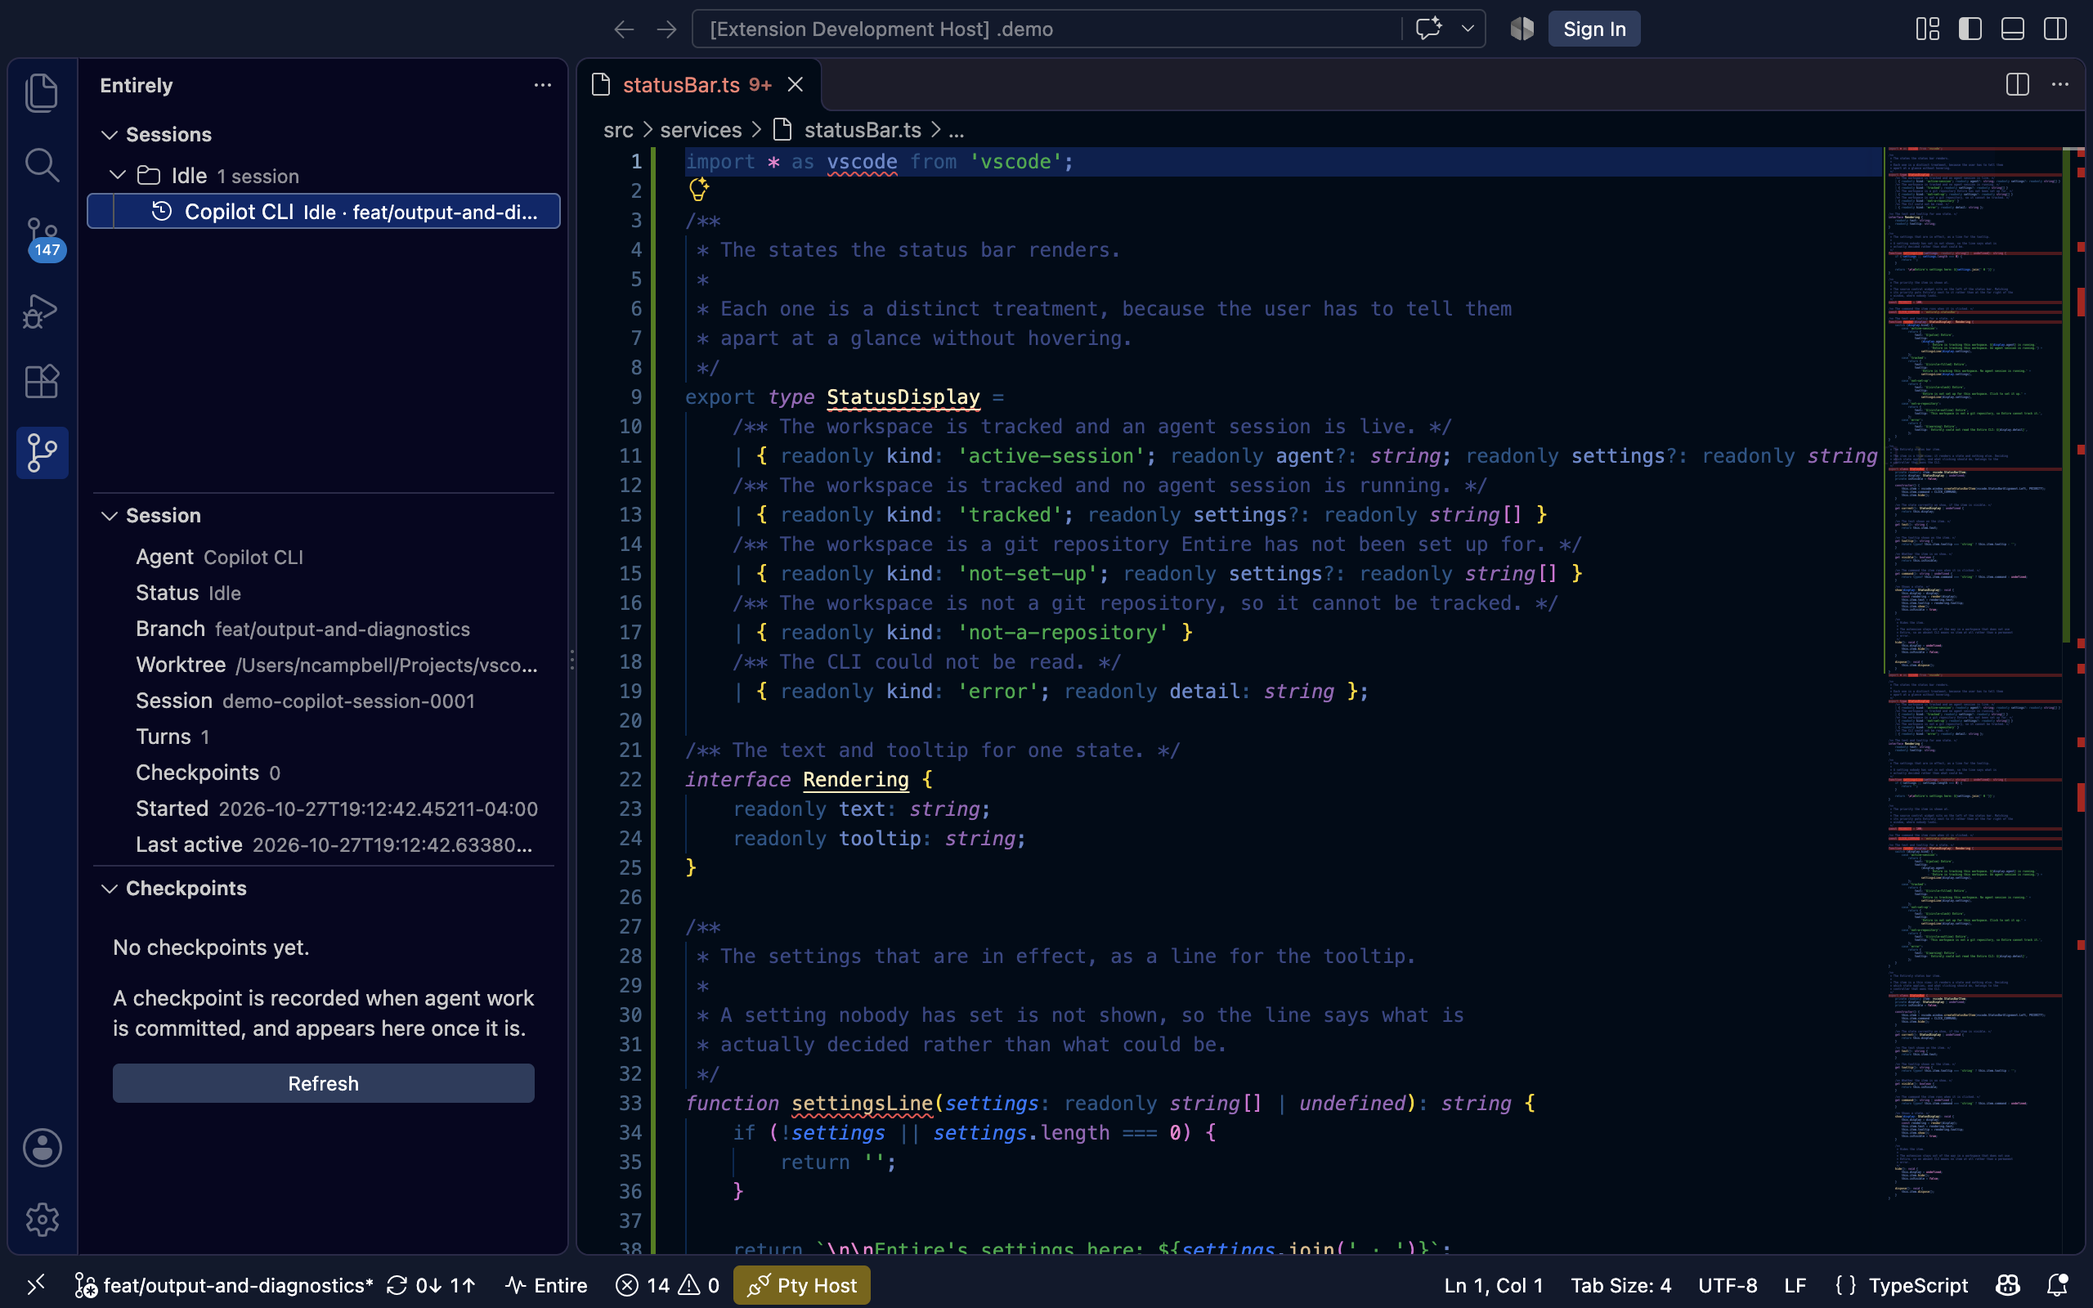
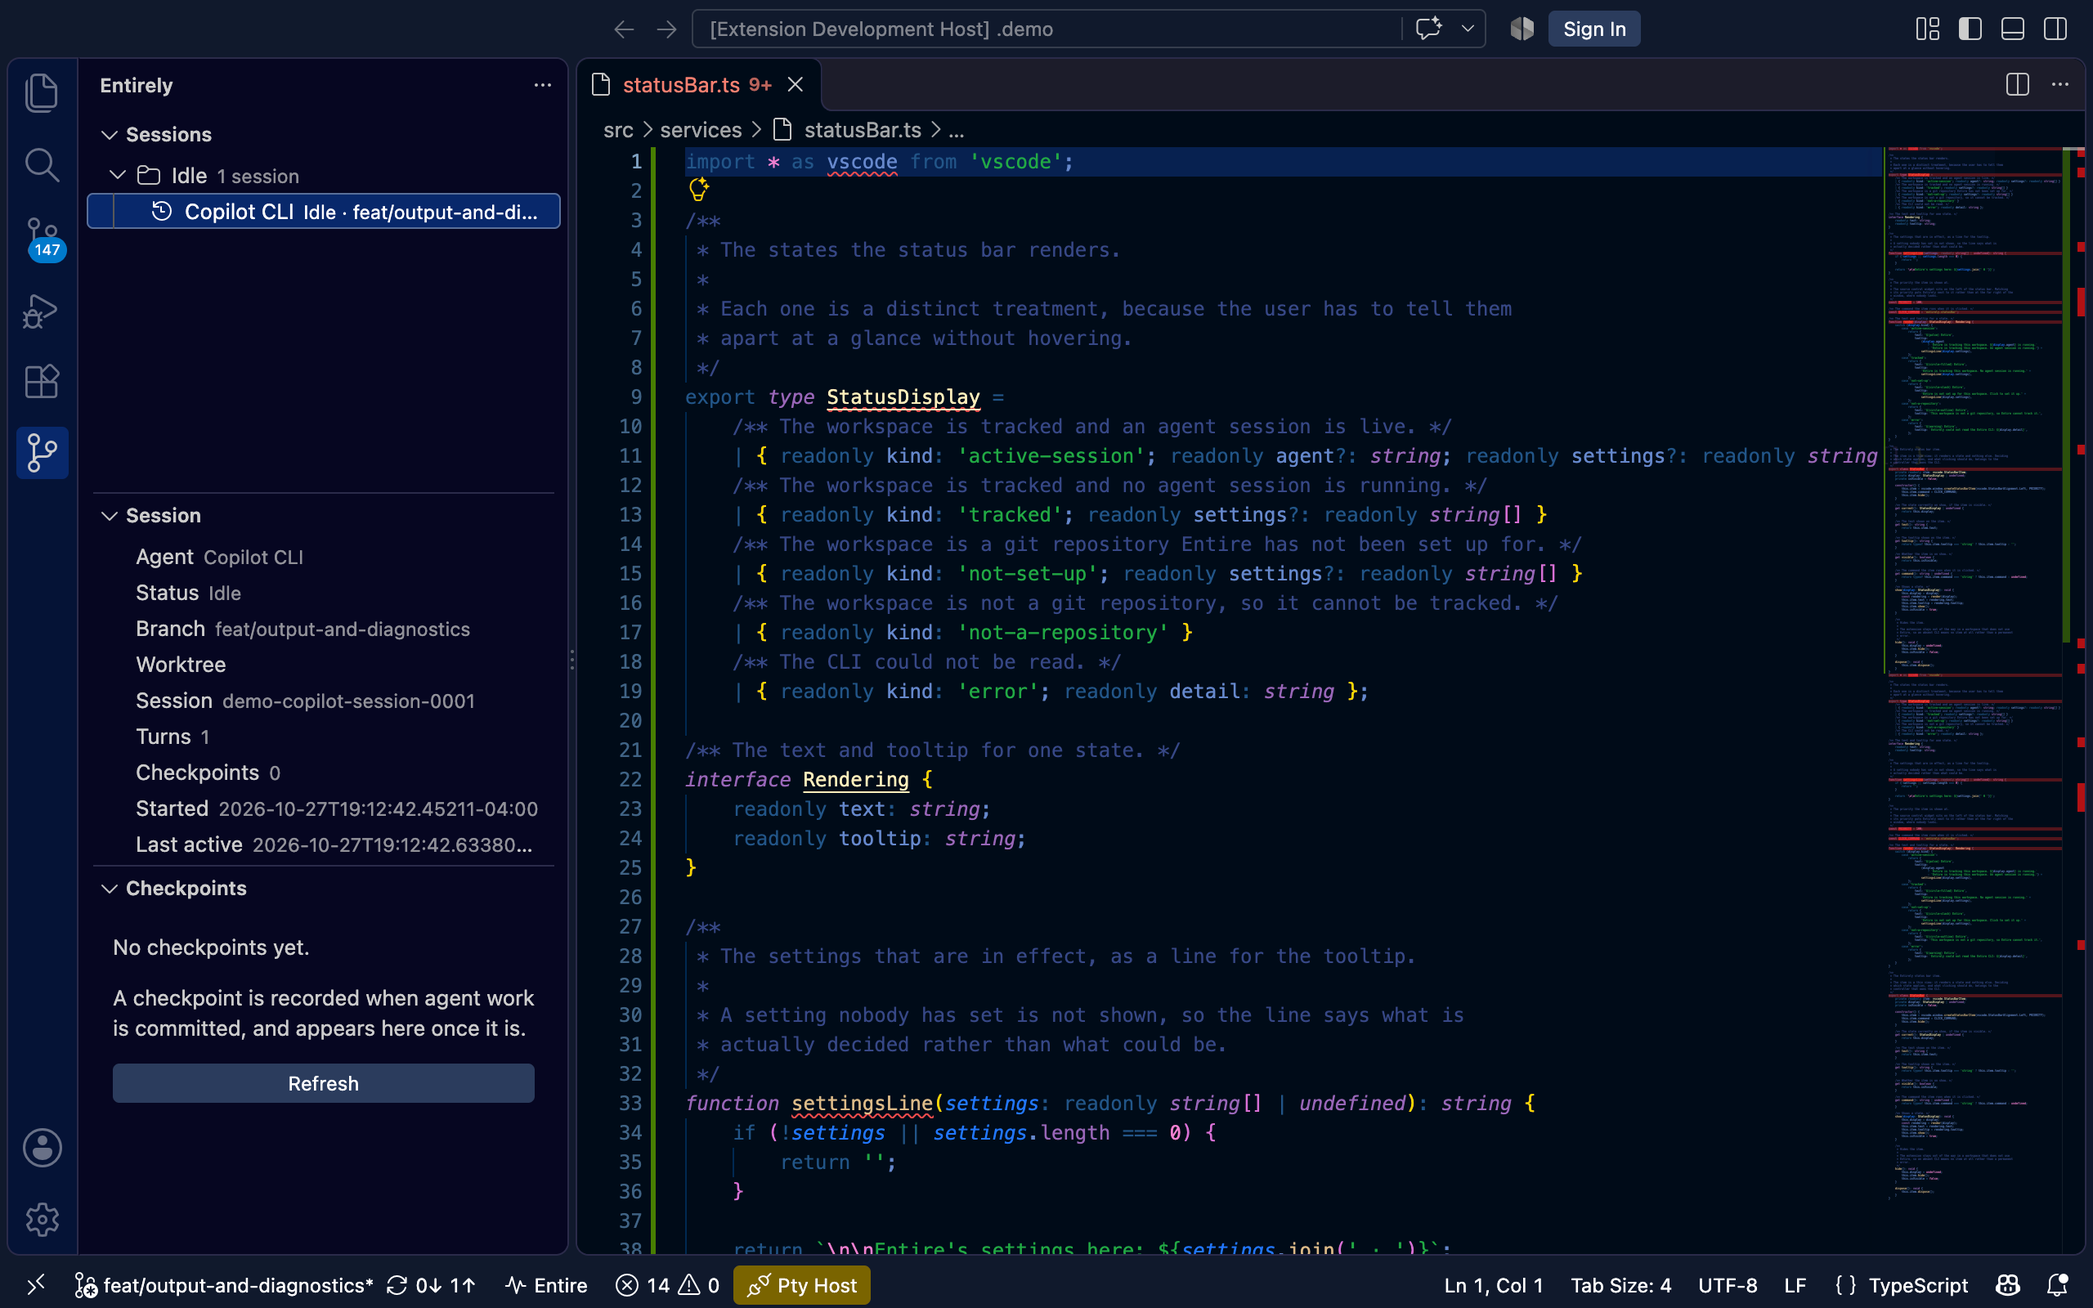
docs(site): correct which commands ask first, and redact local paths from the screenshots
Entire-Checkpoint: 01M66AE08SMASX5QBHS37V0KGV

diff --git a/site/src/content/docs/reference/commands.md b/site/src/content/docs/reference/commands.md
@@ -10,7 +10,7 @@ Entirely contributes 63 commands. All of them share the category `Entirely`, so 
 Reading the tables:
 
 - **Where** lists the places beyond the palette. `view title` is the toolbar of a view, `inline` is the icon on a tree row, `context` is a right-click menu, `editor` is the editor's context menu or title bar.
-- **Changes** says whether the command changes anything on Entire, in the repository or in your settings. *Read* means it only reads. *Confirms* means a modal prompt names what will change and nothing runs until you agree. See [Privacy and redaction](/entirely/concepts/privacy-and-redaction/) for what the extension keeps out of its logs.
+- **Changes** says whether the command changes anything on Entire, in the repository or in your settings. *Read* means it only reads. *Confirms* means a modal prompt names what will change and nothing runs until you agree. *Asks for input, no confirmation* means you pick or type something and the command then runs without a further prompt. See [Privacy and redaction](/entirely/concepts/privacy-and-redaction/) for what the extension keeps out of its logs.
 - **Hidden** commands are registered with `commandPalette: false`. They exist for menus, tree rows and links, and never show in the palette.
 
 Several commands that have a menu entry are also in the palette, for example **Entirely: Create Repository**. The ones that are not are marked *hidden*.
@@ -22,11 +22,11 @@ Several commands that have a menu entry are also in the palette, for example **E
 | Entirely: Refresh | `entirely.refresh` | palette | Read | Re-reads the CLI for workspace, session and checkpoint state. |
 | Entirely: Open Settings | `entirely.openSettings` | palette | Read | Opens the Settings editor filtered to Entirely. |
 | Entirely: Entirely Status | `entirely.statusBar` | status bar click; hidden | Depends on state | The status bar's click action. See [Status bar](/entirely/reference/status-bar/). |
-| Entirely: Set Up Entire | `entirely.setUp` | palette | Confirms | Offers to run `entire enable` for the workspace, which installs hooks so agent sessions are recorded. Picks the agent from `entire agent list`. |
+| Entirely: Set Up Entire | `entirely.setUp` | palette | Asks for input, no confirmation | Shows a message with a **Set Up** button (not a modal), then a picker of the agents from `entire agent list`, then runs `entire enable` for that agent with no further prompt. Installs hooks so agent sessions are recorded. |
 | Entirely: Set Up Agent Integrations | `entirely.manageAgents` | palette | Confirms | Lists the agents the CLI supports, marks the installed ones, and installs or removes one. The prompt says the CLI will write the agent's hook configuration into the repository. See [Agent integrations](/entirely/guides/agent-integrations/). |
 | Entirely: Add the Entire CLI to the Terminal PATH | `entirely.repairTerminalPath` | palette | Confirms | Writes `terminal.integrated.env.<platform>` so the integrated terminal can run `entire`. You pick the settings scope first. Running it again removes the entry. |
 | Entirely: Check Where Checkpoints Are Uploaded | `entirely.checkpointDestination` | palette | Read | Reports the repository checkpoints go to and whether the CLI can reach it. |
-| Entirely: Doctor: Copy a Diagnostic Report | `entirely.doctor` | palette | Read | Copies a report of CLI version, repository state, effective settings and last error. |
+| Entirely: Doctor: Copy a Diagnostic Report | `entirely.doctor` | palette | Read | Writes a report of CLI version, repository state, effective settings and last error to the output channel, then offers **Copy to Clipboard**. |
 | Entirely: Doctor: Show the CLI's Full Diagnostic Output | `entirely.showCliDoctorOutput` | palette | Read | Shows the bare `entire doctor` output. Never run with a fix flag. |
 | Entirely: Doctor: Show the Last Entire CLI Output | `entirely.dumpCliOutput` | palette | Read | Dumps the recorded output of the last CLI call. This is the explicit way to see a payload that the output channel keeps out by default. |
 
@@ -36,7 +36,7 @@ See [Doctor and diagnostics](/entirely/guides/doctor-and-diagnostics/).
 
 | Palette title | Id | Where | Changes | What it does |
 | --- | --- | --- | --- | --- |
-| Entirely: Sign In to Entire | `entirely.signIn` | Account view title (when signed out) | Account | Runs `entire login`, with a device-code option and a server choice. |
+| Entirely: Sign In to Entire | `entirely.signIn` | Account view title (when signed out) | Account | Runs `entire login`. You choose a browser or a device code; the device-code choice is offered only when the CLI supports it. |
 | Entirely: Sign Out of Entire | `entirely.signOut` | Account view title (when signed in) | Confirms | Runs `entire logout`. The prompt warns that every saved login is signed out. |
 
 See [Accounts and contexts](/entirely/concepts/accounts-and-contexts/).
@@ -77,12 +77,12 @@ See [Search](/entirely/guides/search/) and [Blame and why](/entirely/guides/blam
 
 ## Trails and review
 
-Each action below confirms in a modal prompt and names what it changes. The merge runs a dry run first and reports blockers before it asks. The timeout is `entirely.trailActionTimeout`.
+Merge, check out, link and unlink confirm in a modal prompt that names what they change. The merge runs a dry run first and reports blockers before it asks. Approve runs right after you pick the change, and comment runs right after you type the text, so neither confirms. The timeout is `entirely.trailActionTimeout`.
 
 | Palette title | Id | Where | Changes | What it does |
 | --- | --- | --- | --- | --- |
-| Entirely: Approve a Change on a Trail | `entirely.trailApprove` | palette | Confirms | `entire trail approve`, optionally with a message. |
-| Entirely: Comment on a Change on a Trail | `entirely.trailComment` | palette | Confirms | Posts a comment (`trail comment add`) or a finding (`trail finding add`). Comment bodies are redacted from the logged command line. |
+| Entirely: Approve a Change on a Trail | `entirely.trailApprove` | palette | Asks for input, no confirmation | `entire trail approve`, run as soon as you pick the change. No message is sent. |
+| Entirely: Comment on a Change on a Trail | `entirely.trailComment` | palette | Asks for input, no confirmation | Posts a comment (`trail comment add`) as soon as you enter the text. If the CLI refuses a comment from an agent session, the note is posted as a finding (`trail finding add`) instead and you are told. Comment bodies are redacted from the logged command line. |
 | Entirely: Merge a Change on a Trail | `entirely.trailMerge` | palette | Confirms | `entire trail merge`, after a dry run that names what will be merged. |
 | Entirely: Check Out a Change on a Trail | `entirely.trailCheckout` | palette | Confirms | `entire trail checkout`. Warns about unsaved files because the checkout moves the working tree. |
 | Entirely: Link a Branch to a Trail | `entirely.trailLink` | palette | Confirms | `entire trail link`. |
@@ -129,9 +129,9 @@ The delete, visibility and access commands are hidden from the palette and live 
 | Entirely: Install Plugin | `entirely.installPlugin` | palette | Confirms | `entire plugin install`. |
 | Entirely: Refresh Integrations | `entirely.refreshIntegrations` | Integrations view title | Read | Re-checks plugins and the MCP server per workspace folder. |
 | Entirely: Install Plugin | `entirely.installIntegration` | Integrations inline icon (row with a missing plugin) | Confirms | Installs that row's plugin. It has the same title as the palette command above. |
-| Entirely: Turn On MCP Server | `entirely.enableMcpIntegration` | Integrations inline icon (row where MCP is off) | Setting | Sets `entirely.mcpServerEnabled` for the folder. |
+| Entirely: Turn On MCP Server | `entirely.enableMcpIntegration` | Integrations inline icon (row where MCP is off) | Confirms | Sets `entirely.mcpServerEnabled` in the narrowest scope that takes effect: the folder, then the workspace, then your user settings. |
 | Entirely: Add MCP Server to Project Configuration | `entirely.addMcpToProject` | Integrations inline icon (row where it can be added) | Confirms | Adds the Entire server to the project's `.mcp.json`. Never writes a credential or the CLI path. |
-| Entirely: Start MCP Server | `entirely.startMcpServer` | palette | Read | Starts `entire mcp` for the editor's agent. The editor owns the process. |
+| Entirely: Start MCP Server | `entirely.startMcpServer` | palette | Confirms, only if the setting is off | Starts `entire mcp` for the editor's agent. The editor owns the process. If `entirely.mcpServerEnabled` is off, a modal says "The Entire MCP server is turned off." and, on **Turn On**, sets it in your user settings. |
 | Entirely: Copy MCP Server Configuration | `entirely.copyMcpConfig` | palette | Read | Copies the server definition to the clipboard. |
 
 See [Plugins](/entirely/guides/plugins/) and [Integrations and MCP](/entirely/guides/integrations-and-mcp/). Plugin install and the live MCP server are covered by tests against fake CLIs. They have not been verified against a live Entire account.

diff --git a/site/README.md b/site/README.md
@@ -1,3 +1,5 @@
 # Entirely documentation site
 
 Astro + Starlight site for the Entirely extension, deployed to [greysquirr3l.github.io/entirely](https://greysquirr3l.github.io/entirely/). It is separate from the extension: its own `package.json` and `pnpm-lock.yaml`, excluded from the VSIX and from the extension's TypeScript and lint runs. Develop with `pnpm install` then `pnpm dev` (Node 22.23.4 or newer; pnpm is pinned in `packageManager`), and check with `pnpm check` and `pnpm build`. Pages live in `src/content/docs/`; each sidebar section autogenerates from its directory, ordered by `sidebar.order`, so adding a page needs no config change. The site is served under `/entirely`, so write links in Markdown with that prefix; images imported from `src/assets` are rewritten by Astro. Deploy with `pnpm run deploy` (or `pnpm run deploy:dry`, which stops before pushing): `scripts/deploy-docs.sh` builds, copies `dist/` into `entirely/` in the `greysquirr3l.github.io` clone, commits, pushes, and polls the live URL, reading its settings from the `deploy-docs` field of `package.json`. If the live URL returns "Site not found", Pages is enabled on the source repo and shadows the user page; run `gh api -X DELETE repos/greysquirr3l/entirely-vscode/pages` (reversible in Settings, Pages).
+
+The screenshots under `src/assets` (`sessions.png`, `output.png`) are redacted copies with local paths covered. Retake them from a demo workspace whose path holds no personal name.

diff --git a/site/src/content/docs/reference/settings.md b/site/src/content/docs/reference/settings.md
@@ -7,7 +7,7 @@ sidebar:
 
 Entirely declares 25 settings under `entirely.*`. Open them with **Entirely: Open Settings** or search the Settings editor for `@ext:greysquirr3l.entirely`. The defaults and ranges below are read from `contributes.configuration` in `package.json`.
 
-Every value that a person might reasonably change is a setting. Timeouts are in seconds unless a row says otherwise. A value outside the range is clamped by the editor.
+Every value that a person might reasonably change is a setting. Timeouts are in seconds unless a row says otherwise. A value outside the range is clamped by the extension when it reads the setting.
 
 ## Scope
 
@@ -86,4 +86,4 @@ See [Plugins](/entirely/guides/plugins/) and [Integrations and MCP](/entirely/gu
 
 ## Settings the extension writes
 
-Two commands write editor settings, each after you confirm and choose a scope: **Entirely: Add the Entire CLI to the Terminal PATH** writes `terminal.integrated.env.<platform>`, and **Entirely: Turn On MCP Server** writes `entirely.mcpServerEnabled`.
+Two commands write editor settings, each after you confirm. **Entirely: Add the Entire CLI to the Terminal PATH** lets you choose the scope and writes `terminal.integrated.env.<platform>`. **Entirely: Turn On MCP Server** has no scope choice: it writes `entirely.mcpServerEnabled` in the narrowest scope that takes effect (folder, then workspace, then user).

diff --git a/site/src/content/docs/contributing/security.md b/site/src/content/docs/contributing/security.md
@@ -32,7 +32,7 @@ Out of scope: the Entire CLI and the Entire forge. Report those to Entire under 
 ## What the extension does to protect you
 
 - **No secrets.** Tokens stay in the Entire CLI's credential store. The extension never reads that store.
-- **Ask first.** Anything that changes Entire or your repository asks before it runs and says what it will touch. See [Commands](/entirely/reference/commands/).
+- **Ask first.** Destructive or shared-state changes ask before they run and say what they will touch. Approving or commenting on a trail runs right after you pick or type. See [Commands](/entirely/reference/commands/).
 - **Quiet logs.** Transcripts, prompt bodies, checkpoint payloads and search queries stay out of the output channel. Sensitive operands are redacted from logged command lines. See [Privacy and redaction](/entirely/concepts/privacy-and-redaction/).
 - **MCP configuration** is written only inside the workspace, only after you agree, and never contains a credential or a path to your CLI. See [Integrations and MCP](/entirely/guides/integrations-and-mcp/).
 - **Browser links** open only Entire addresses.

diff --git a/site/src/content/docs/concepts/how-entirely-works.md b/site/src/content/docs/concepts/how-entirely-works.md
@@ -35,7 +35,7 @@ Entirely doesn't keep a list of flags. For commands where flags matter (trail me
 
 ## Confirmations and read-back
 
-Anything that changes Entire, your repository or your settings asks first. The dialog names the target and, where it matters, the login the command will run as. Declining changes nothing.
+Destructive changes and changes to shared state or your settings ask first (approving or commenting on a trail, and setting Entire up, run after you pick or type). The dialog names the target and, where it matters, the login the command will run as. Declining changes nothing.
 
 After a change, Entirely reads the state again and reports success only if the CLI now shows the new state. For example, a repository change is "done" only when the listing reflects it, and an agent install is confirmed by reading `agent list` again. Exit code zero isn't treated as proof by itself.
 

diff --git a/site/src/content/docs/reference/status-bar.md b/site/src/content/docs/reference/status-bar.md
@@ -5,7 +5,7 @@ sidebar:
   order: 4
 ---
 
-Entirely adds one item to the left side of the status bar, at priority 100. That is the same priority as the Source Control item, so it sits next to it. The item always starts with Entire's logo, written `$(entire-logo)`, then the word `Entire`, then a codicon that names the state. The logo is never altered or coloured to show state. See [How Entirely works](/entirely/concepts/how-entirely-works/).
+Entirely adds one item to the left side of the status bar, at priority 100. The item always starts with Entire's logo, written `$(entire-logo)`, then the word `Entire`, then a codicon that names the state. The logo is never altered or coloured to show state. See [How Entirely works](/entirely/concepts/how-entirely-works/).
 
 If the CLI is absent, the item is hidden. A workspace that does not use Entire shows nothing, rather than a permanent error.
 

diff --git a/site/src/content/docs/contributing/release.md b/site/src/content/docs/contributing/release.md
@@ -61,7 +61,7 @@ So expect a `neutral` result, and approve on Entire (for example with **Entirely
 
 The site in `site/` is built with Astro and Starlight and served at <https://greysquirr3l.github.io/entirely/>. The `site.yml` workflow type-checks and builds it on every pull request and push to `main`. It has no path filter on the trigger, so it always reports a result and can be a required check. The filter is applied to the build steps.
 
-Deployment is manual, from a clone of `greysquirr3l.github.io` placed next to the repository:
+Deployment is manual, from a clone of `greysquirr3l.github.io`. The clone's path is the `deploy-docs.pagesRepo` field of `site/package.json` (default `../../../greysquirr3l.github.io`, relative to `site/`):
 
 ```sh
 cd site

diff --git a/site/src/content/docs/getting-started/introduction.md b/site/src/content/docs/getting-started/introduction.md
@@ -38,7 +38,7 @@ Entirely does not re-implement Entire. It finds the installed CLI, reads the JSO
 Three consequences follow:
 
 - If the CLI is missing, the extension says so and links to the install instructions. It doesn't fail obscurely.
-- Anything that changes Entire or your repository asks first and says what it will touch.
+- Changes to shared state or your working tree (merges, checkouts, deletes, installs, sign-out) ask first and say what they will touch. Approving and commenting on a trail run right after you pick or type.
 - Flags come from the CLI's own `entire agent-help` text at runtime, not from a list inside the extension.
 
 [How Entirely works](/entirely/concepts/how-entirely-works/) covers this in more detail.

diff --git a/site/src/content/docs/reference/cli-commands-used.md b/site/src/content/docs/reference/cli-commands-used.md
@@ -72,7 +72,7 @@ If the CLI is missing or too old to describe a command, the feature says so and 
 
 | Command | Feature | Kind |
 | --- | --- | --- |
-| `entire login` | **Sign In to Entire**, including `--device` and `--server` | Changes (your login) |
+| `entire login` | **Sign In to Entire**, including `--device` | Changes (your login) |
 | `entire logout` | **Sign Out of Entire** | Changes (your login) |
 | `entire auth status` | Whether the login is valid | Read |
 | `entire auth contexts` | Naming the acting login | Read |
